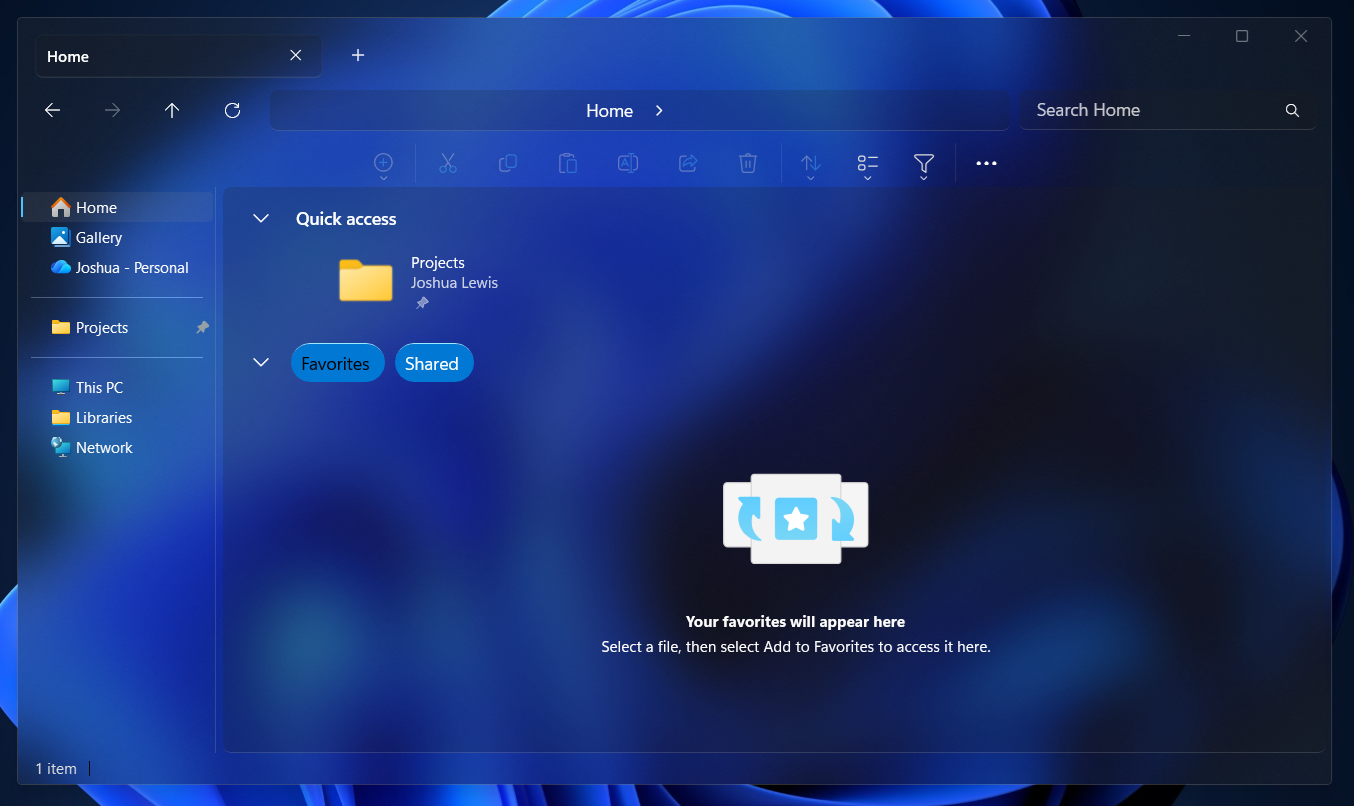
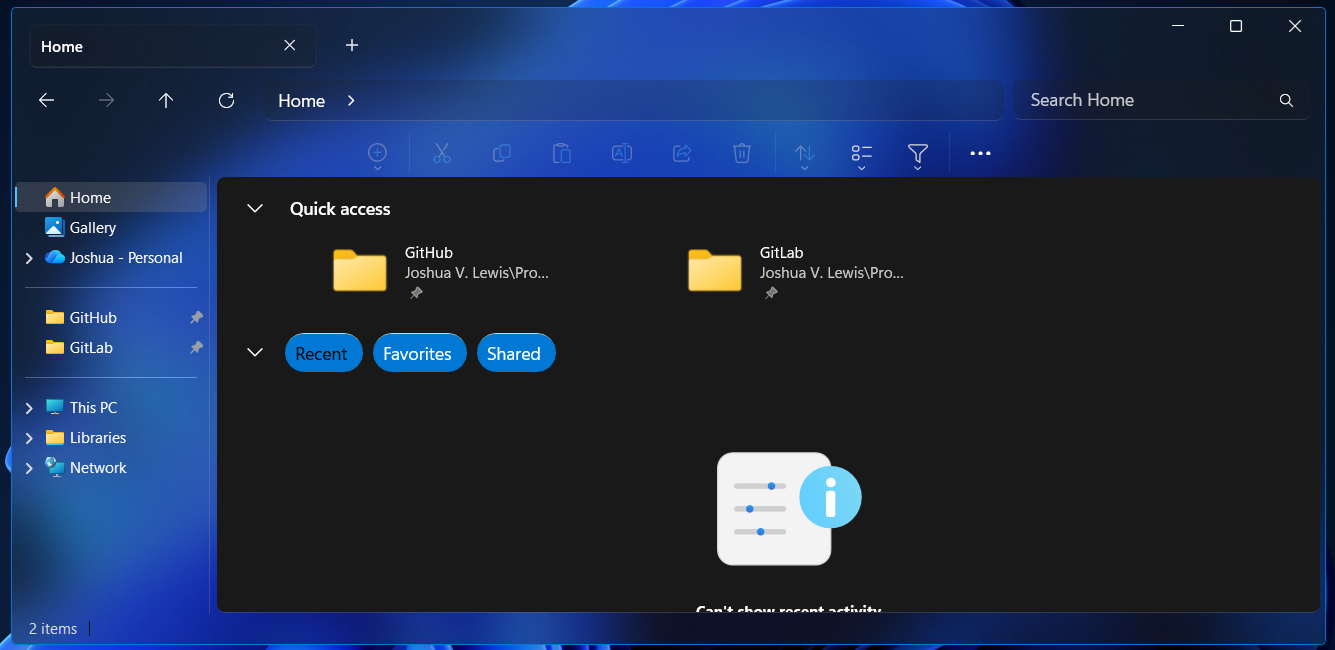
fix: Comment out Background styles in controlStyles to fix bug when swapping tabs

diff --git a/File Explorer/README.md b/File Explorer/README.md
@@ -73,13 +73,13 @@ Follow these instructions to install the Windows Glass File Explorer theme on yo
 "controlStyles[10].styles[1]": "CornerRadius=$ElementCornerRadius",
 "controlStyles[10].styles[2]": "BorderThickness=$ElementBorderThickness",
 "controlStyles[10].styles[3]": "Margin=4,0",
-"controlStyles[10].styles[4]": "Background:=$ElementBG",
+"controlStyles[10].styles[4]": "// Background:=$ElementBG",
 "controlStyles[11].target": "FileExplorerExtensions.GalleryViewControl#GalleryViewControl > Grid  ",
 "controlStyles[11].styles[0]": "BorderBrush:=$ElementBorderBrush",
 "controlStyles[11].styles[1]": "CornerRadius=$ElementCornerRadius",
 "controlStyles[11].styles[2]": "BorderThickness=$ElementBorderThickness",
 "controlStyles[11].styles[3]": "Margin=4,0",
-"controlStyles[11].styles[4]": "Background:=$ElementBG",
+"controlStyles[11].styles[4]": "// Background:=$ElementBG",
 "controlStyles[12].target": "FileExplorerExtensions.GalleryViewControl#GalleryViewControl > Grid > Grid#GalleryRootGrid",
 "controlStyles[12].styles[0]": "Background:=Transparent",
 "controlStyles[13].target": "ToolTip",
